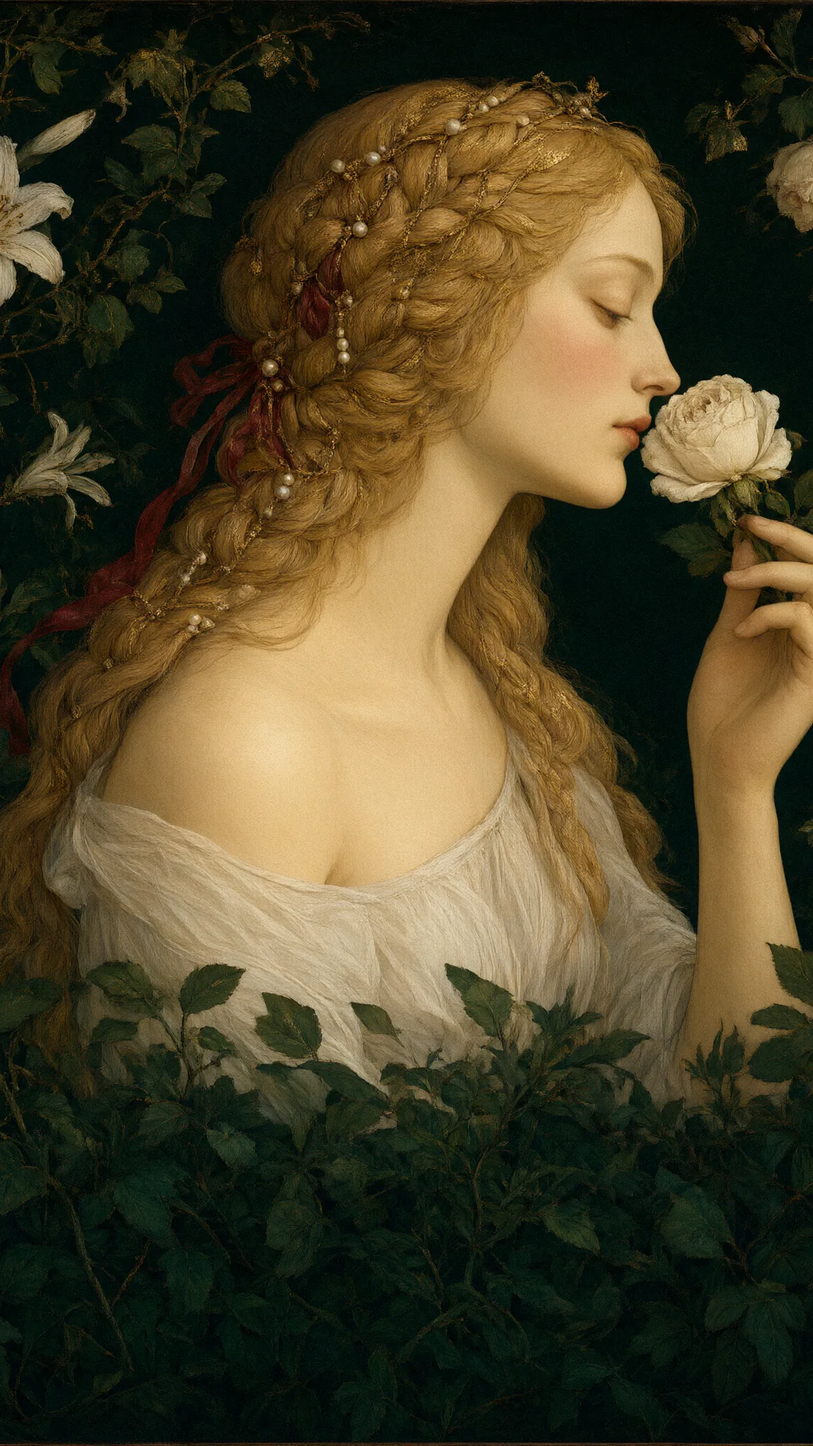
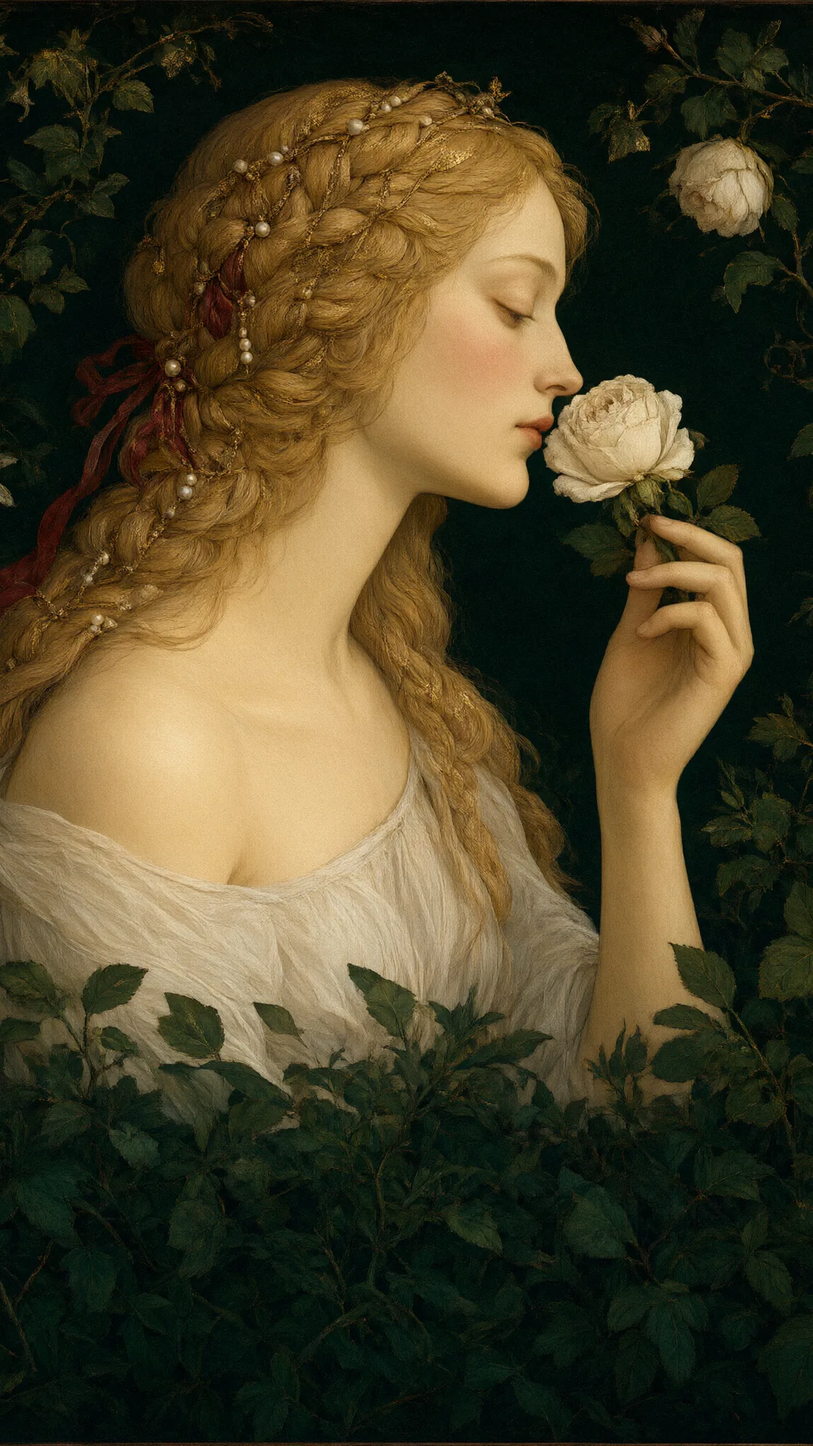
v6 - moris 2

diff --git a/v6/work/scripts/post.py b/v6/work/scripts/post.py
@@ -274,9 +274,9 @@ def main():
     # полноэкранное полотно: v7-hero-1, зеркалим (лицо в источнике слева, тексту нужен правый край),
     # два кропа одного оригинала: desktop 16:9 1600x900, mobile 9:16 1152x2048
     hf = load('v7-hero-1').transpose(Image.FLIP_LEFT_RIGHT)
-    land = hf.crop((0, 40, 1600, 940))  # голова (макушка y~100) с полем 60px, лицо ~70-86% ширины
+    land = hf.crop((208, 0, 2048, 1035))  # голова ровно по центру (50%), макушка ~10%
     save_webp(grain_vignette(land), f'{SITE}/hero/hero-full-land.webp')
-    port = hf.crop((414, 0, 1566, 2048))  # лицо ~75% ширины
+    port = hf.crop((552, 0, 1704, 2048))  # голова по центру (50%), целиком над текстом
     save_webp(grain_vignette(port), f'{SITE}/hero/hero-full-port.webp')
     pairs = [('v7-feminity-1', 'paint/feminity-figure-2'),
              ('v7-optics-2', 'paint/optics-figure'),

diff --git a/v6/work/stylebook.md b/v6/work/stylebook.md
@@ -98,8 +98,10 @@
   быстрый спад .28@64 → .12@72 → 0@88.
   Контраст замером: суть 8.8:1, H1 ~4.8:1, лейбл золотом ~4.6:1. Норма ≥ 4.5:1.
   Два кропа одного оригинала (v7-hero-1, 2048², ЗЕРКАЛЕН по горизонтали — в исходнике
-  лицо слева): land 1600x900 (0,40,1600,940 — лицо 70–86% ширины) и port 1152x2048
-  (414,0,1566,2048 — лицо ~75%), отдача через <picture media="(orientation: portrait)">.
+  лицо слева): land 1600x900 (208,0,2048,1035 — центр головы ровно 50% ширины, центр
+  головы на ~37% высоты, макушка ~10%; 57% головы выше текста) и port 1152x2048
+  (552,0,1704,2048 — голова по центру, 27–72% ширины, текст с 46% высоты — без
+  пересечений), отдача через <picture media="(orientation: portrait)">.
 - **Бархат темнее на 15% от ревизии v7:** не перегенерацией, а вуалью в html::before —
   linear-gradient(rgba(0,0,0,.32),rgba(0,0,0,.32)) поверх плитки velvet-tile (ранее .2).
 - **Портреты авторов — прямоугольники** (класс .frame, без арки): золотая двойная

diff --git a/v6/spec/illustration-prompts.md b/v6/spec/illustration-prompts.md
@@ -193,9 +193,9 @@ French tapestry mood
 
 - paint/cards: resize (800,1000) LANCZOS → grain_vignette → webp q82; без inset-кропов
   (t2i-оригиналы чистые по краям).
-- hero: v7-hero-1 2048² — ЗЕРКАЛИМ (в источнике лицо слева, тексту нужен правый край),
-  затем кропы land (0,40,1600,940) — лицо ~70–86% ширины, макушка с полем 60px — и
-  port (414,0,1566,2048) — лицо ~75% ширины.
+- hero: v7-hero-1 2048² — ЗЕРКАЛИМ (в источнике лицо слева), затем кропы
+  land (208,0,2048,1035) — центр головы ровно 50% ширины, 57% головы выше текста — и
+  port (552,0,1704,2048) — голова по центру, весь текст ниже лица.
 - антракт: v7-interlude-1 1280×1600 → 1460×1825, лёгкий UnsharpMask(2.0/55) без
   контраста (t2i не мылит, в отличие от i2i).
 - og-cover: кроп v7-interlude-1 1200×630.
